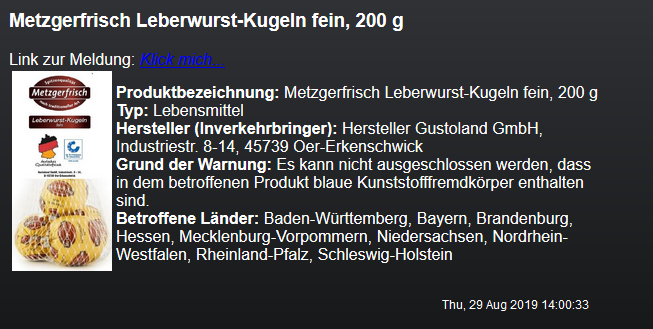
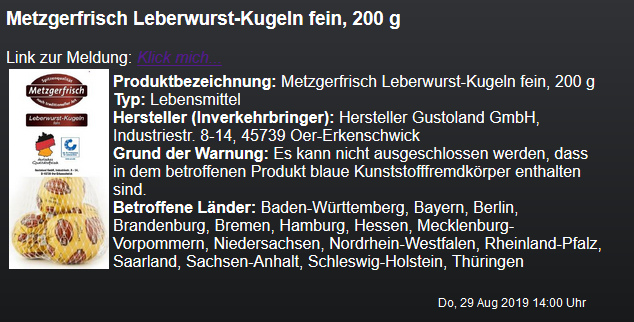
V0.0.6
Wochentage und Monate auf dt. Datumsformat, Produktart als Datenpunkt, Datum neu formatiert

diff --git a/Lebensmittelwarnung.js b/Lebensmittelwarnung.js
@@ -1,6 +1,9 @@
 
 /* 
    (c)2019 by SBorg 
+   V0.0.6 - 02.09.2019 ~ Wochentage und Monate auf dt. Datumsformat gepatcht
+                       + Produktart als Datenpunkt
+                       ~ Datum neu formatiert (Sekunden entfernt und "Uhr" hinzugefügt)
    V0.0.5 - 31.08.2019 ~ Bilder als eigener Datenpunkt ausgelagert
    V0.0.4 - 29.08.2019 + Fehlermanagement Webserver
                        + Datenpunkt für "neue Warnung" / true bei neuer Warnung
@@ -15,7 +18,7 @@
    benötigt 'rss-parser': cd /opt/iobroker && npm install --save rss-parser
 
       ToDo: - besseres Datenpunktmanagment
-            - beliebig viele filter ermöglichen
+            - beliebig viele Filter ermöglichen
    
    known issues: keine
 
@@ -67,7 +70,7 @@ function polldata() {
  
   try {
         let feed = await parser.parseURL(URL);
-        var i=0, Beschreibung, Bild;
+        var i=0, Beschreibung, Bild, Produktart;
         if (debug === true) {console.log(feed.title);}
  
         feed.items.forEach(function(entry) {
@@ -85,11 +88,50 @@ function polldata() {
                         Bild = Bild.substring(Bild.indexOf('"')+1, Bild.lastIndexOf('"'));
                         Bild = Bild.substring(0, Bild.indexOf('"'));
                     } else {Bild = '';}
+
+                    //Datum auf dt. Wochentage patchen
+                    let WT = entry.pubDate.substring(0, 3);
+                    switch (WT) {
+                        case "Mon":
+                            entry.pubDate = entry.pubDate.replace('Mon', 'Mo');
+                            break;
+                        case "Tue":
+                            entry.pubDate = entry.pubDate.replace('Tue', 'Di');
+                            break;    
+                        case "Wed":
+                            entry.pubDate = entry.pubDate.replace('Wed', 'Mi');
+                            break;
+                        case "Thu":
+                            entry.pubDate = entry.pubDate.replace('Thu', 'Do');
+                            break;
+                        case "Fri":
+                            entry.pubDate = entry.pubDate.replace('Fri', 'Fr');
+                            break;
+                        case "Sat":
+                            entry.pubDate = entry.pubDate.replace('Sat', 'Sa');
+                            break;
+                        case "Sun":
+                            entry.pubDate = entry.pubDate.replace('Sun', 'So');
+                            break;    
+                        default:
+                            console.log('Fehler beim Datum parsen...: '+WT);
+                    }
+
+                    //Monate auf dt. Format patchen
+                    if (entry.pubDate.search('Mar')) {entry.pubDate = entry.pubDate.replace('Mar', 'März');}
+                    if (entry.pubDate.search('May')) {entry.pubDate = entry.pubDate.replace('May', 'Mai');}
+                    if (entry.pubDate.search('Dec')) {entry.pubDate = entry.pubDate.replace('Dec', 'Dez');}
+
+                    //Produktart filtern
+                    Produktart = Beschreibung.substring(Beschreibung.indexOf('<b>Typ:</b>'));
+                    Produktart = Produktart.substring(12, Produktart.indexOf('<br/>'));
+
                     setState(DP+'.Nummer_'+i+'.Titel', entry.title);
                     setState(DP+'.Nummer_'+i+'.Link', entry.link);
-                    setState(DP+'.Nummer_'+i+'.Datum', entry.pubDate.substring(0, entry.pubDate.length-6));
+                    setState(DP+'.Nummer_'+i+'.Datum', entry.pubDate.substring(0, entry.pubDate.lastIndexOf(':'))+' Uhr');
                     setState(DP+'.Nummer_'+i+'.Beschreibung', Beschreibung);
                     setState(DP+'.Nummer_'+i+'.Produktbild', Bild);
+                    setState(DP+'.Nummer_'+i+'.Produktart', Produktart);
                     i++;
                 }
             }
@@ -157,6 +199,10 @@ async function createDP() {
                                                     role: "state"
                                                  });
         createState(DP+'.Nummer_'+i+'.Produktbild', '', { name: "Produktbild zur Warnung",
+                                                    type: "string",
+                                                    role: "state"
+                                                 });
+        createState(DP+'.Nummer_'+i+'.Produktart', '', { name: "Produktart zur Warnung",
                                                     type: "string",
                                                     role: "state"
                                                  });

diff --git a/README.md b/README.md
@@ -9,7 +9,7 @@ ioBroker anlegen zu lassen.
 
 ### ToDo ###
 - besseres Datenpunktmanagment
-- beliebig viele filter ermöglichen
+- beliebig viele Filter ermöglichen
 
 
 ### Installation ###
@@ -61,6 +61,13 @@ Code 1:1 per "Import Widget" in die View einfügen.
 
 
 ## Versionen ##
+**V0.0.6 - 02.09.2019**
+```
+    ~ Wochentage und Monate auf dt. Datumsformat gepatcht
+    + Produktart als Datenpunkt
+    ~ Datum neu formatiert (Sekunden entfernt und "Uhr" hinzugefügt)
+```
+	
 **V0.0.5 - 31.08.2019**
 ```
     ~ Bilder als eigener Datenpunkt ausgelagert
